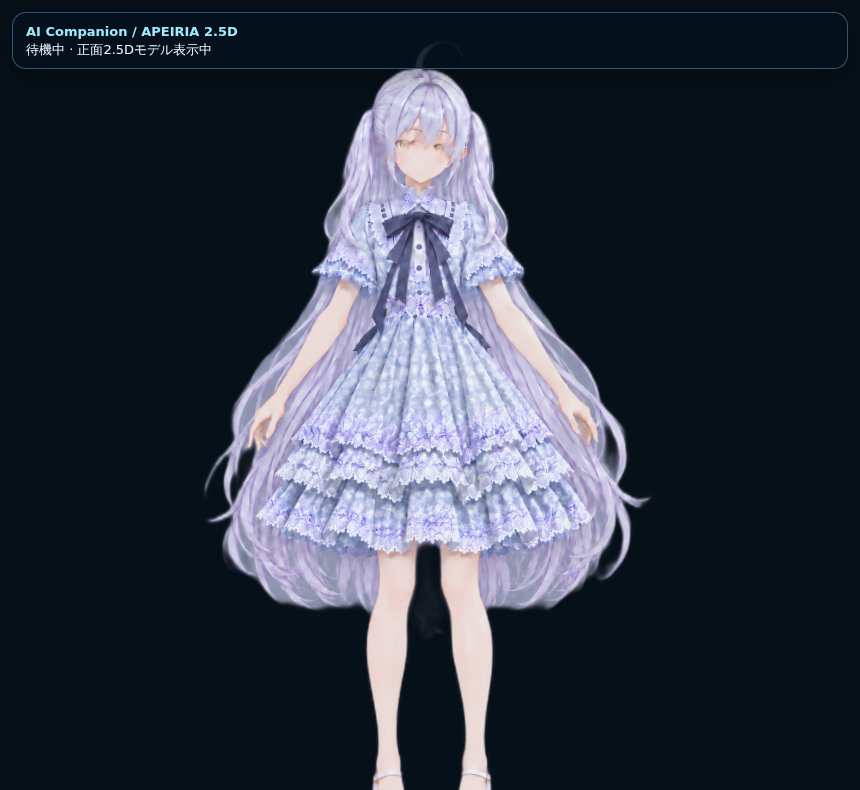
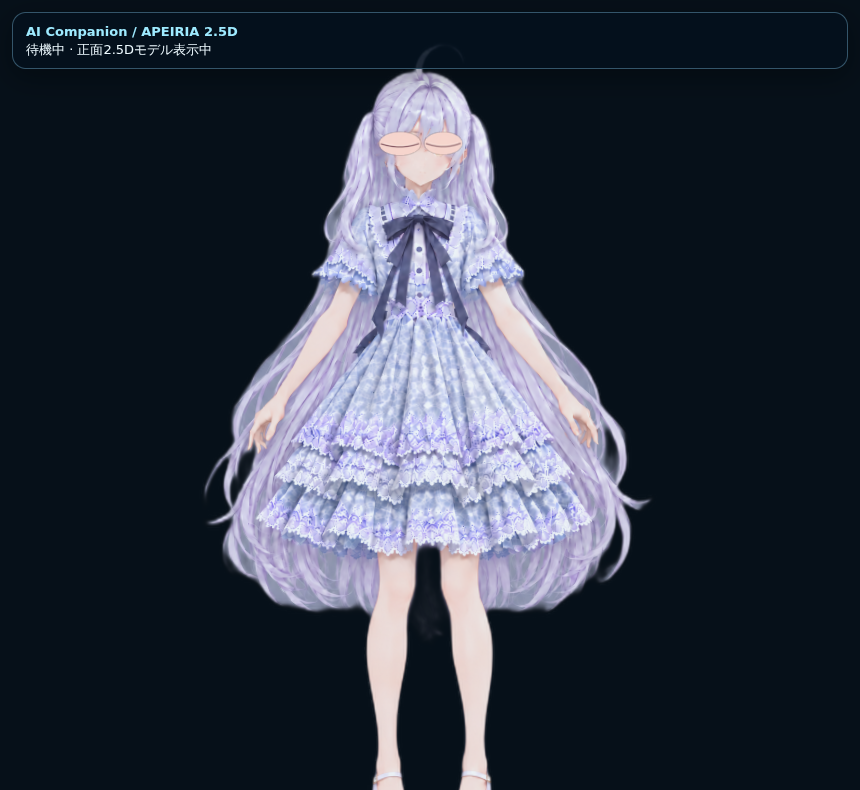
Update WebGL render report [skip ci]

diff --git a/render-output/index.html b/render-output/index.html
@@ -1,6 +1,6 @@
-<!doctype html><html lang="ja"><meta charset="utf-8"><meta name="viewport" content="width=device-width,initial-scale=1"><title>APEIRIA WebGL render report</title><style>body{font:14px system-ui;background:#07101a;color:#eaf7ff;margin:20px}main{max-width:1100px;margin:auto}.grid{display:grid;grid-template-columns:repeat(auto-fit,minmax(260px,1fr));gap:12px}figure{margin:0;background:#102231;padding:8px;border-radius:8px}img,video{width:100%;display:block}pre{white-space:pre-wrap;background:#020a10;padding:8px}</style><main><h1>APEIRIA WebGL render report</h1><p>Chromium + SwiftShaderで実際のGLBをWebGL描画した結果です。</p><p>commit: <code>033db348e73c2a55c2efb534c7bfa3d81591e131</code><br>生成日時: <code>2026-10-06T03:34:33.675Z</code><br>renderer: <code>WebKit WebGL</code></p><h2>実アプリ</h2><div class="grid"><figure><img src="app-normal.png"><figcaption>通常</figcaption></figure><figure><img src="app-both-closed.png"><figcaption>両目閉じ</figcaption></figure></div><h2>片目ごとの検証（枠付き）</h2><div class="grid"><figure><img src="normal-debug.png"><figcaption>通常</figcaption></figure><figure><img src="left-closed-debug.png"><figcaption>左目閉じ</figcaption></figure><figure><img src="right-closed-debug.png"><figcaption>右目閉じ</figcaption></figure><figure><img src="both-closed-debug.png"><figcaption>両目閉じ</figcaption></figure></div><h2 id="face-closeup-report">顔アップ（同一倍率）</h2><p>同じ画素範囲を5倍に拡大しています。</p><div class="grid"><figure><img src="face-normal.png"><figcaption>通常</figcaption></figure><figure><img src="face-left-closed.png"><figcaption>左目閉じ</figcaption></figure><figure><img src="face-right-closed.png"><figcaption>右目閉じ</figcaption></figure><figure><img src="face-both-closed.png"><figcaption>両目閉じ</figcaption></figure></div><h2>差分マップ</h2><p>通常状態から変化した画素を赤で表示しています。</p><div class="grid"><figure><img src="face-diff-left-closed.png"><figcaption>左目閉じ</figcaption></figure><figure><img src="face-diff-right-closed.png"><figcaption>右目閉じ</figcaption></figure><figure><img src="face-diff-both-closed.png"><figcaption>両目閉じ</figcaption></figure></div><p><a href="blink-analysis.json">差分解析JSON</a></p><h2>自動瞬き</h2><video controls loop muted playsinline src="blink.webm"></video><p><a href="report.json">診断JSON</a> · <a href="../webgl-blink-calibration.html">検証ページ</a></p><h2>診断</h2><pre>{
-  &quot;commit&quot;: &quot;033db348e73c2a55c2efb534c7bfa3d81591e131&quot;,
-  &quot;generatedAt&quot;: &quot;2026-10-06T03:34:33.675Z&quot;,
+<!doctype html><html lang="ja"><meta charset="utf-8"><meta name="viewport" content="width=device-width,initial-scale=1"><title>APEIRIA WebGL render report</title><style>body{font:14px system-ui;background:#07101a;color:#eaf7ff;margin:20px}main{max-width:1100px;margin:auto}.grid{display:grid;grid-template-columns:repeat(auto-fit,minmax(260px,1fr));gap:12px}figure{margin:0;background:#102231;padding:8px;border-radius:8px}img,video{width:100%;display:block}pre{white-space:pre-wrap;background:#020a10;padding:8px}</style><main><h1>APEIRIA WebGL render report</h1><p>Chromium + SwiftShaderで実際のGLBをWebGL描画した結果です。</p><p>commit: <code>fbeb7138427def120c0f09d8a7fac0827f1cffcf</code><br>生成日時: <code>2026-10-06T04:09:17.415Z</code><br>renderer: <code>WebKit WebGL</code></p><h2>実アプリ</h2><div class="grid"><figure><img src="app-normal.png"><figcaption>通常</figcaption></figure><figure><img src="app-both-closed.png"><figcaption>両目閉じ</figcaption></figure></div><h2>片目ごとの検証（枠付き）</h2><div class="grid"><figure><img src="normal-debug.png"><figcaption>通常</figcaption></figure><figure><img src="left-closed-debug.png"><figcaption>左目閉じ</figcaption></figure><figure><img src="right-closed-debug.png"><figcaption>右目閉じ</figcaption></figure><figure><img src="both-closed-debug.png"><figcaption>両目閉じ</figcaption></figure></div><h2>自動瞬き</h2><video controls loop muted playsinline src="blink.webm"></video><p><a href="report.json">診断JSON</a> · <a href="../webgl-blink-calibration.html">検証ページ</a></p><h2>診断</h2><pre>{
+  &quot;commit&quot;: &quot;fbeb7138427def120c0f09d8a7fac0827f1cffcf&quot;,
+  &quot;generatedAt&quot;: &quot;2026-10-06T04:09:17.415Z&quot;,
   &quot;webgl&quot;: {
     &quot;canvas&quot;: true,
     &quot;webgl&quot;: true,
@@ -11,9 +11,9 @@
   &quot;appDiagnostics&quot;: {
     &quot;textureReady&quot;: true,
     &quot;textureTargets&quot;: 2,
-    &quot;progress&quot;: 0,
+    &quot;progress&quot;: 1,
     &quot;autoCount&quot;: 1,
-    &quot;lastBlinkAt&quot;: 2050.7999999999956,
+    &quot;lastBlinkAt&quot;: 1969.9000000000087,
     &quot;coordinateSystem&quot;: &quot;model-local&quot;,
     &quot;config&quot;: {
       &quot;l&quot;: {
@@ -34,11 +34,11 @@
       &quot;height&quot;: 1536
     },
     &quot;stats&quot;: {
-      &quot;progress&quot;: 0,
+      &quot;progress&quot;: 1,
       &quot;coordinateSystem&quot;: &quot;model-local&quot;,
       &quot;eyes&quot;: {
         &quot;l&quot;: {
-          &quot;changed&quot;: 0,
+          &quot;changed&quot;: 1,
           &quot;centroid&quot;: [
             -0.067,
             0.733
@@ -54,7 +54,7 @@
           ]
         },
         &quot;r&quot;: {
-          &quot;changed&quot;: 0,
+          &quot;changed&quot;: 1,
           &quot;centroid&quot;: [
             0.036,
             0.733
